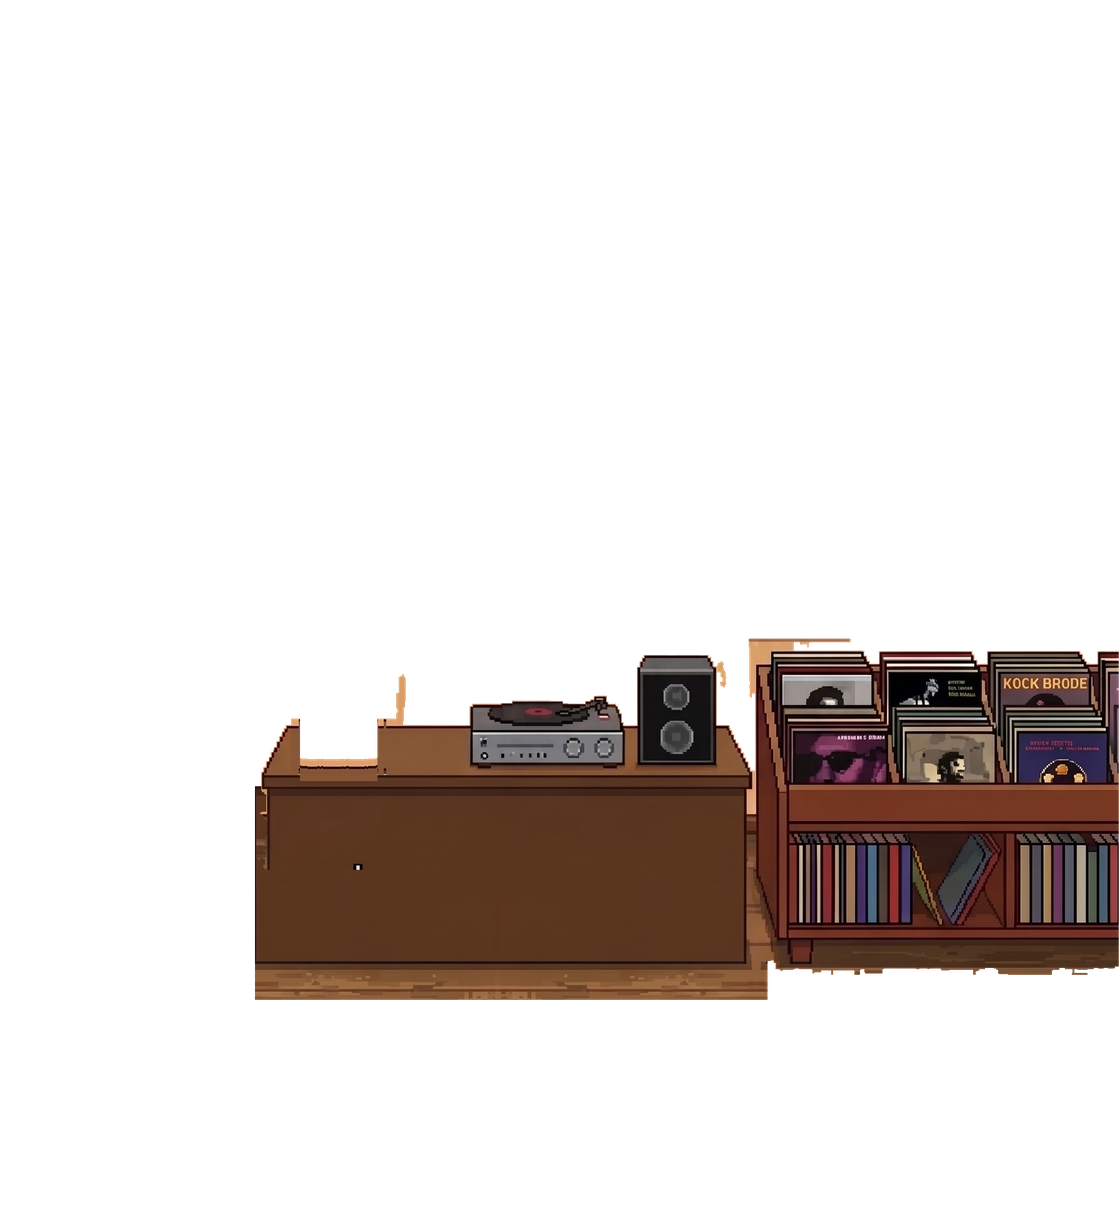
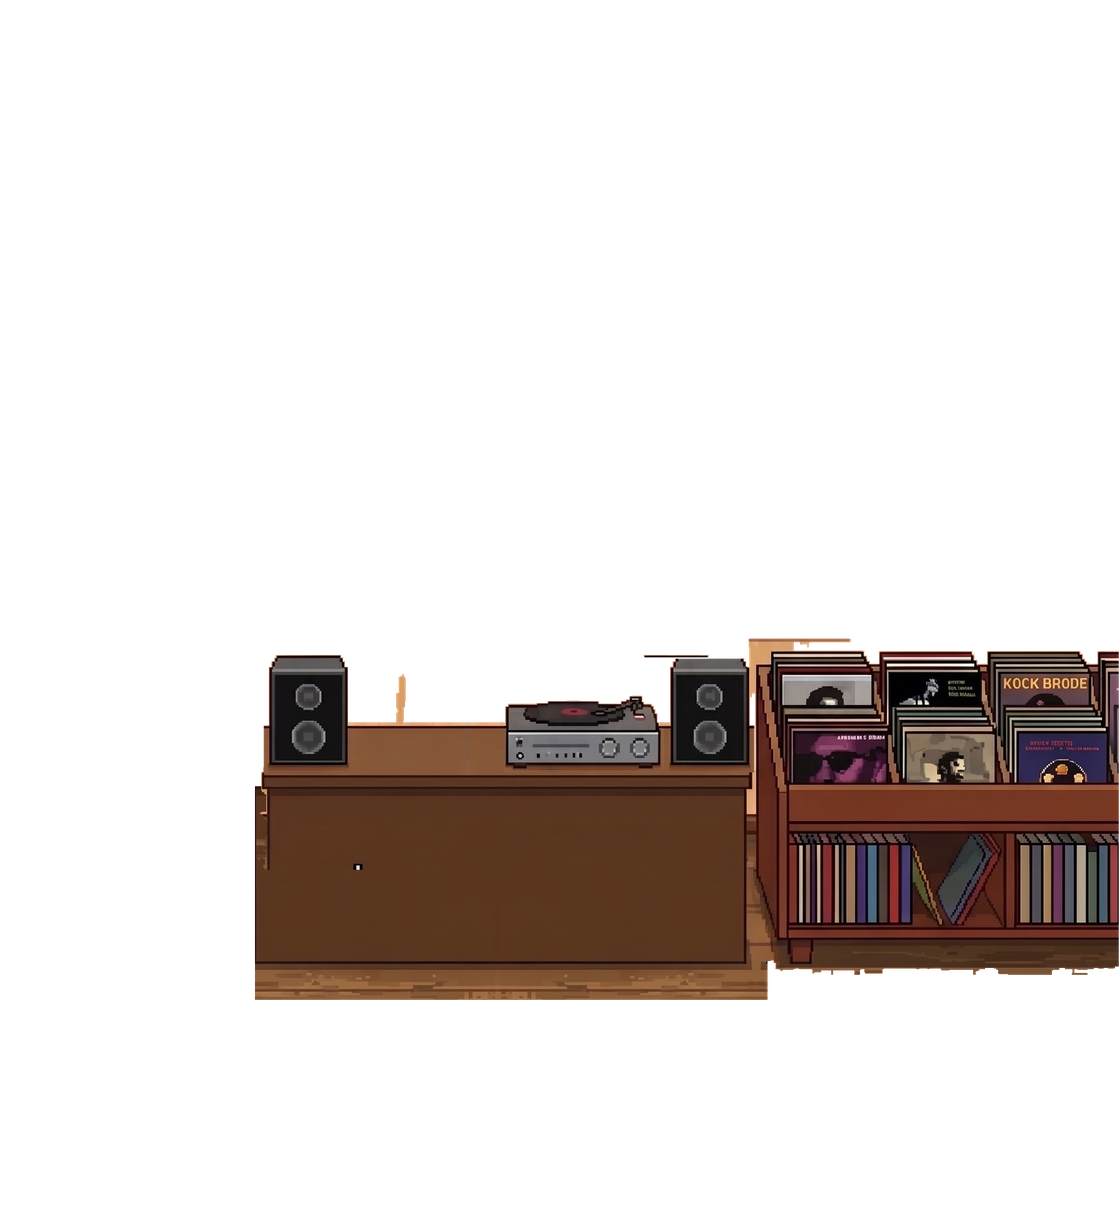
喇叭找回來：三件器材都保留，往兩邊挪出老闆站的空檔
上一版把左喇叭 drop 掉，等於刪掉店主的美術。改成三件都留、重新排位。

踩到的三個坑：
- 檯面上緣其實是水平的（y≈1164）。之前偵測器在有器材的欄位讀到的是器材底部，
  誤判成斜的，補出鋸齒。改回單純的橫向鏡射補（TILE_FILL 取代 SLOPE_FILL）
- PIECES 的順序＝合成順序：櫃檯排在器材後面會把擴大機整個蓋掉，要先畫櫃檯
- 切圖框鬆就會黏到牆的碎片，喇叭的 wall_thr 要拉到 190，框也要貼緊

結果：左喇叭左移 48px、唱盤右移 57px、右喇叭右移 53px 貼右端，
中間空出 55 寬給老闆站（cx 174），小人 SVG 回到 78，露得出頭肩。

roguelike.html 未動。

Claude-Session: https://claude.ai/code/session_019QrQGEkqCT46LjRfRKh6Qz

Changed region(s): [[0.4062, 0.5248, 0.6875, 0.6483], [0.2188, 0.5248, 0.3438, 0.6483]]

diff --git a/stage-preview.html b/stage-preview.html
@@ -106,14 +106,14 @@
 
   // 站位（邏輯座標；跟 scripts/trace-shop-art.py 的家具座標對齊）
   // 櫃檯 x 102–307、檯面上緣 y=299（前景層從這裡開始遮住小人）、檯身下緣 400
-  // 檯面器材：唱盤 190–247、右喇叭 257–290（左喇叭拿掉）→ 老闆站檯面左半 cx 145
+  // 檯面器材：左喇叭挪到 105–146、唱盤 201–252、右喇叭 267–302 → 老闆站空檔 cx 174（寬 55）
   const POS = {
     p:{ door:[48,408],        // 剛推門進來，站在門口
         browse:[190,455],     // 自己逛（離櫃檯夠遠，不會疊到）
         pay:[168,430],        // 結帳：站在櫃檯前（腳底 > 402 → 蓋在櫃檯上面）
         leaving:[132,418],    // 準備離開，往門口走
         atdoor:[128,420] },   // 在門口撞見男子（跟男子拉開，中間留給老闆）
-    o:{ counter:[145,325],    // 櫃檯後面（腳底貼著牆，被檯面擋到胸口）
+    o:{ counter:[174,325],    // 櫃檯後面（腳底貼著牆，被檯面擋到胸口）
         aisle:[72,345],       // 繞出櫃檯左端
         dig1:[318,410],       // 右邊唱片區：翻找（腳底 402–458 → 櫃檯前、挖寶櫃後）
         dig2:[372,404],

diff --git a/PROJECT_MEMORY.md b/PROJECT_MEMORY.md
@@ -1,5 +1,32 @@
 # dip vinyl 專案備忘錄
 
+### 2026-09-08｜dip-vinyl-shop｜喇叭找回來：檯面上緣是水平的、合成順序要櫃檯先畫
+
+同一條分支（`claude/card-game-character-creation-xpgz1f`，PR #12 草稿，**未合併 main**）。
+
+店主：「喇叭直接不見了⋯⋯」。上一版為了讓老闆站櫃檯後面有空檔，把左喇叭 `drop` 掉，
+等於把店主的美術刪掉一件。改成**三件器材都保留、往兩邊挪**。
+
+**踩到的三個坑（都記著，之後改家具位置會再遇到）：**
+
+1. **檯面上緣其實是水平的（y≈1164），不是斜的。** 之前寫了 `SLOPE_FILL`
+   偵測「檯面上緣落在第幾列」再照斜率平移抄，結果補出鋸齒。原因是偵測器在**有器材的欄位**
+   讀到的是器材底部（1226）而不是檯面上緣（1164），才誤判成斜的。
+   改回最單純的 `TILE_FILL`：從乾淨的一段（左喇叭與唱盤之間 x 650–748）橫向鏡射抄過去。
+2. **`PIECES` 的順序＝合成順序。** 櫃檯排在器材後面時，櫃檯會把器材蓋掉（擴大機整個不見）。
+   櫃檯要排最前面先畫，器材才疊得上檯面。
+3. **切圖框鬆一點就會黏到牆的碎片。** 喇叭是牆上的深色方塊，`wall_thr` 要拉到 190；
+   框也要貼緊（差 30px 就會把牆的細微色差算成家具）。
+
+**結果**：左喇叭往左挪 48px（x 105–146）、唱盤擴大機往右挪 57px（201–252）、
+右喇叭往右挪 53px 貼到檯面右端（267–302），中間空出 **55 寬**的空檔給老闆站（cx 174）。
+小人 SVG 回到 78（人物實寬 49、高 73），站櫃檯後面露得出頭肩。
+
+- 主要檔案：`scripts/trace-shop-art.py`（PIECES 重排順序、TILE_FILL 取代 SLOPE_FILL、
+  spkL/gear/spkR 三件獨立切、CUT_OPTS 各自門檻）、`art/shop2-fg-back.png`、`stage-preview.html`
+- **`roguelike.html` 一樣沒動。**
+- 驗證：Chromium（400×1000、DPR 3）六個場景截圖，檯面無鋸齒、器材完整、兩顆喇叭都在。
+
 ### 2026-09-08｜dip-vinyl-shop｜前景拆成前後兩層、左喇叭拿掉、加「老闆去挖片」
 
 同一條分支（`claude/card-game-character-creation-xpgz1f`，PR #12 草稿，**未合併 main**）。
